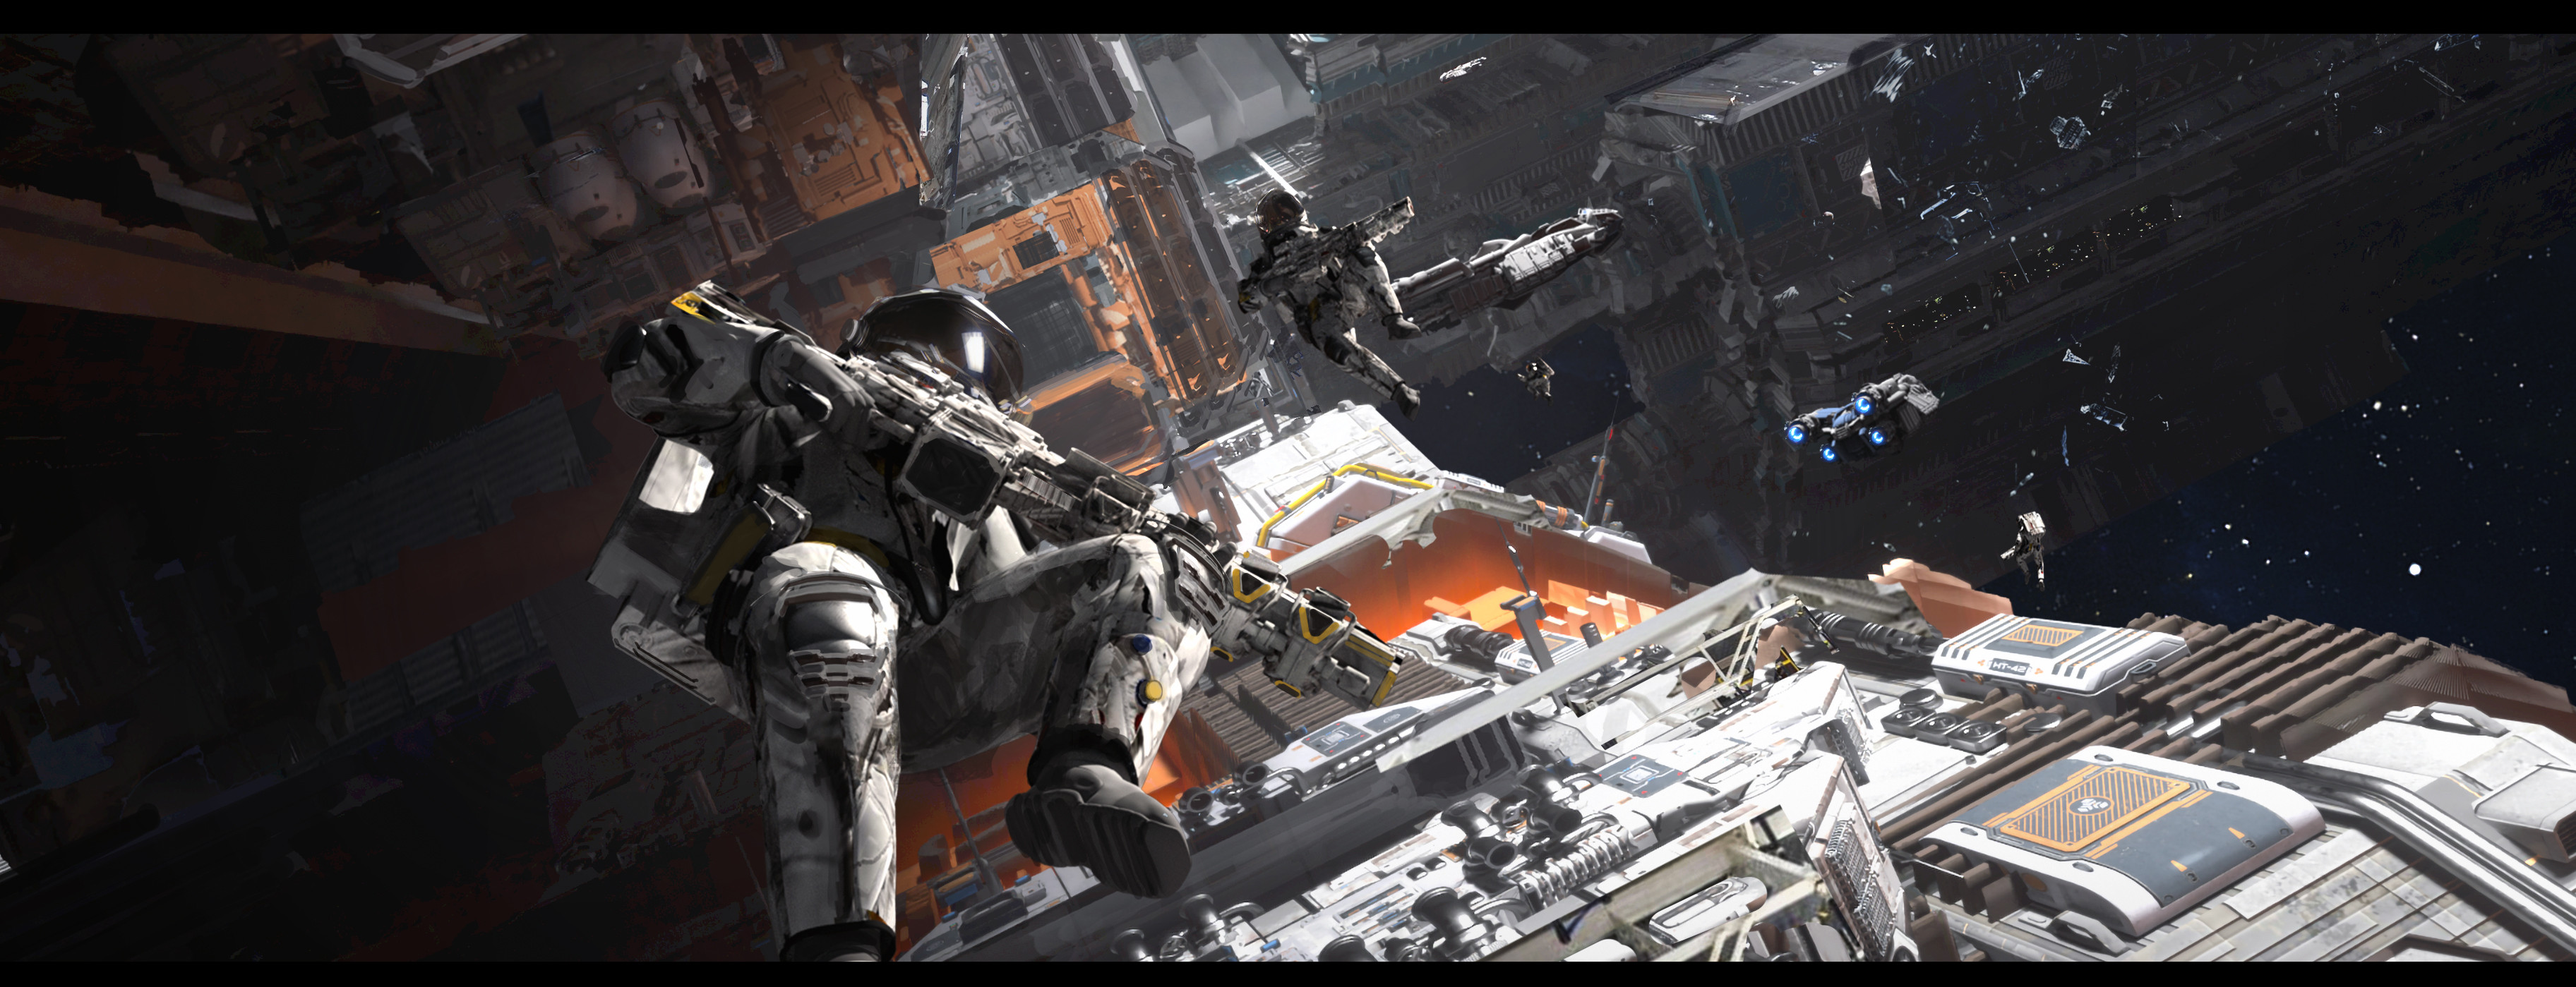
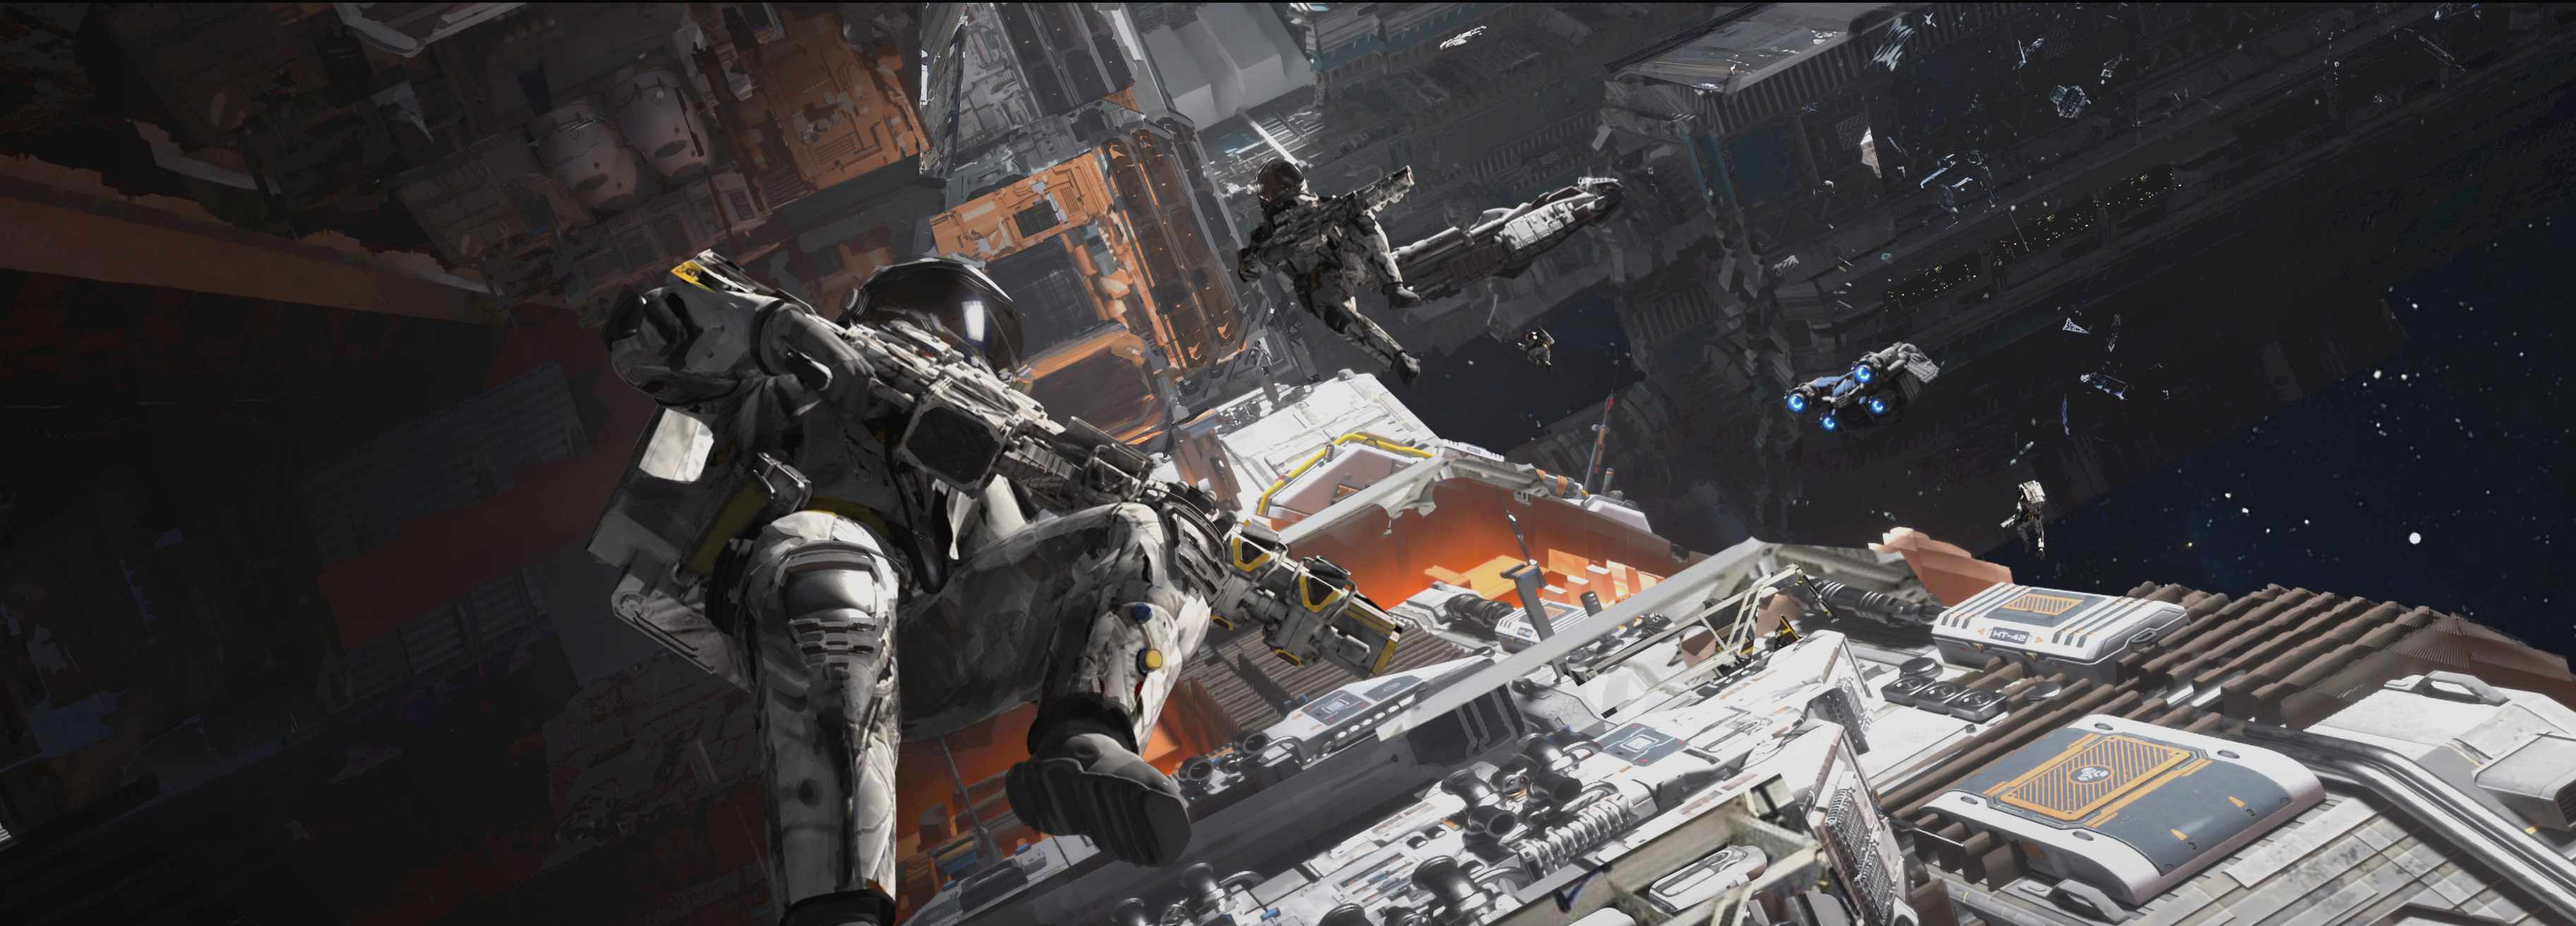
3
图片压缩，页面功能删减，更加简洁，提高访问速度与链接质量

diff --git a/about.html b/about.html
@@ -198,10 +198,16 @@
           <div class="row">
             <div class="col-md-12 col-lg-6">
               <div class="manager-content">
-                <h2 class=" font-medium">A focus on what matters</h2>
-                <h4 class="fotn-20 mt-20 font-roboto font-medium line-height-30">It is a long established fact that a reader will be distracted by the readable content of a page when looking at its layout. The point of using Lorem Ipsum is that it has a more-or-less </h4>
-                <p class="mt-20 opacity-80">It is a long established fact that a reader will be distracted by the readable content of a page when looking at its layout. </p>
-                <p class="mt-20 opacity-80">It is a long established fact that a reader will be distracted by the readable content of a page when looking at its layout. The point of using Lorem Ipsum is that it has a more-or-less normal distribution of letters, </p>
+                <h2 class=" font-medium">关注我的b站账号</h2>
+              <ul class="mt-35">
+                <li> <p><span><i class="far fa-check-circle"></i></span> Blender的软件操作和一些常见的问题</p></li>
+                <li> <p><span><i class="far fa-check-circle"></i></span>CAD（不限于Autocad和中望cad）的基本操作和部分问题解决</p></li>
+                <li> <p><span><i class="far fa-check-circle"></i></span>不定期分享其他的软件操作</p></li>
+                <li> <p><span><i class="far fa-check-circle"></i></span> 个人收藏内有大量的软件学习教程</p></li>
+              </ul>
+              <div class="manager-btn mt-40">
+                <a class="btn btn-theme white" href="https://space.bilibili.com/1909791946/" target="_blank">关注我的b站账号</a>
+              </div>
             </div>
             </div>
             <div class="col-md-12 col-lg-6">
@@ -376,9 +382,9 @@
       <div class="pta-check">
         <div class="container">
           <div class="pta-box d-lg-flex">
-            <h3 class="white font-light font-30 font-md-40">We transform your ability to make, adapt and grow. Digital business provide creative strategy </h3>
+            <h3 class="white font-light font-30 font-md-40">更新日志</h3>
             <div class="pta-btn mt-30 mt-md-0">
-              <a class="btn btn-blue-3" href="#">Ask your Question</a>
+              <a class="btn btn-blue-3" href="#">查看</a>
             </div>
           </div>
         </div>
@@ -387,79 +393,7 @@
      <!-- =====================================
     ======== Pta Area End ==========
     ====================================== -->
-
-    <!-- =====================================
-    ======== Count Area Start ==========
-    ====================================== -->
-    <section class="count-area section-padding">
-      <div class="container">
-        <div class="section-title-center">
-          <h2 >Strength in numbers workspace </h2>
-          <span class="opacity-80">Trusted by over 30,000 of the world’s leading</span>
-        </div>
-      </div>
-      <div class="container">
-        <div class="count-wrapper mt-30">
-          <div class="row">
-            <div class="col-sm-6 col-md-6 col-lg-3">
-              <div class="count-box text-center py-30 mt-30">
-                <div class="count-icon count-icon-1">
-                  <span><i class="fas fa-mobile-alt"></i></span>
-                </div>
-                <div class="count-content">
-                  <span class="font-40 counter font-medium">12</span>
-                  <span class="font-40 font-medium">k</span>
-                  <p class="opacity-80">App Build</p>
-                </div>
-              </div>
-            </div>
-            <div class="col-sm-6 col-md-6 col-lg-3">
-              <div class="count-box text-center py-30 mt-30">
-                <div class="count-icon count-icon-2">
-                  <span><i class="fas fa-cloud-download-alt"></i></span>
-                </div>
-                <div class="count-content">
-                  <span class="font-40 counter font-medium">101</span>
-                  <span class="font-40 font-medium">k</span>
-                  <p class="opacity-80">Downloaded</p>
-                </div>
-              </div>
-            </div>
-            <div class="col-sm-6 col-md-6 col-lg-3">
-              <div class="count-box text-center py-30 mt-30">
-                <div class="count-icon count-icon-3">
-                  <span><i class="fas fa-list-ul"></i></span>
-                </div>
-                <div class="count-content">
-                  <span class="font-40 counter font-medium">2</span>
-                  <span class="font-40 font-medium">k</span>
-                  <p class="opacity-80">Projects Complated</p>
-                </div>
-              </div>
-            </div>
-            <div class="col-sm-6 col-md-6 col-lg-3">
-              <div class="count-box text-center py-30 mt-30">
-                <div class="count-icon count-icon-4">
-                  <span><i class="fab fa-behance"></i></span>
-                </div>
-                <div class="count-content">
-                  <span class="font-40 counter font-medium">10</span>
-                  <span class="font-40 font-medium">k</span>
-                  <p class="opacity-80">Behance. follower</p>
-                </div>
-              </div>
-            </div>
-        </div>
-        </div>
-      </div>
-      <div class="count-shap">
-        <img src="assets/img/count-bg.png" alt="">
-      </div>
-    </section>
-    <!-- =====================================
-    ======== Count Area End ==========
-    ====================================== -->
-
+    
   </main>
 
   <!-- =====================================

diff --git a/index.html b/index.html
@@ -93,7 +93,7 @@
     <section class="banner">
       <div class="banner-slide carousel owl-carousel" data-nav="false" data-dots='false' data-animateout="animate__fadeOut" data-animatein="animate__fadeIn" data-margin="0" data-smartSpeed="1000" data-autoplay='true' data-items='1'>
         <div class="banner-slide-item">
-          <div class="banner-area" style="background-image: url(assets/img/index1.png);">
+          <div class="banner-area" style="background-image: url(assets/img/index1.jpg);">
             <div class="container">
               <div class="row">
                 <div class="col-12 col-md-7">
@@ -116,7 +116,7 @@
         </div>
 <!--主页轮播页面二-->
         <div class="banner-slide-item">
-          <div class="banner-area" style="background-image: url(assets/img/index2.png);">
+          <div class="banner-area" style="background-image: url(assets/img/index2.jpg);">
             <div class="container">
               <div class="row">
                 <div class="col-12 col-md-7">
@@ -139,7 +139,7 @@
         </div>
 <!--主页轮播页面三-->
         <div class="banner-slide-item">
-          <div class="banner-area" style="background-image: url(assets/img/index3.png);">
+          <div class="banner-area" style="background-image: url(assets/img/index3.jpg);">
             <div class="container">
               <div class="row">
                 <div class="col-12 col-md-7">
@@ -200,7 +200,7 @@
           </div>
           <div class="col-lg-4">
             <div class="business-img mt-30 mt-lg-0">
-              <img src="assets/img/business.jpg" alt="">
+              <img src="assets/img/niro-xious-makimaaasu2s-1.jpg" alt="图片丢失，请联系管理员">
             </div>
           </div>
         </div>
@@ -275,41 +275,6 @@
     ======== Skill Area End ==========
     ====================================== -->
 
-    <!-- =====================================
-    ======== Manager Area End ==========
-    ====================================== -->
-    <section class="manager-area section-padding">
-      <div class="container">
-        <div class="row">
-          <div class="col-md-12 col-lg-5">
-            <div class="manager-content">
-              <span>视频教程</span>
-              <h2 class="font-medium mt-20">如何学习更多的软件知识</h2>
-              <ul class="mt-35">
-                <li> <p><span><i class="far fa-check-circle"></i></span> Blender的软件操作和一些常见的问题</p></li>
-                <li> <p><span><i class="far fa-check-circle"></i></span>CAD（不限于Autocad和中望cad）的基本操作和部分问题解决</p></li>
-                <li> <p><span><i class="far fa-check-circle"></i></span>不定期分享其他的软件操作</p></li>
-                <li> <p><span><i class="far fa-check-circle"></i></span> 个人收藏内有大量的软件学习教程</p></li>
-              </ul>
-              <div class="manager-btn mt-40">
-                <a class="btn btn-theme white" href="https://space.bilibili.com/1909791946/" target="_blank">关注我的b站账号</a>
-              </div>
-            </div>
-          </div>
-          <div class="col-md-12 col-lg-7">
-            <div class="manager-img mt-40 mt-lg-0">
-              <img src="assets/img/upxusu.jpg" alt="图片又丢失了o。O？请告知管理员QAQ">
-              <span></span>
-              <span></span>
-              <span></span>
-            </div>
-          </div>
-        </div>
-      </div>
-    </section>
-    <!-- =====================================
-    ======== Manager Area End ==========
-    ====================================== -->
 
     <!-- =====================================
     ======== video Area Start ==========
@@ -336,32 +301,6 @@
     <!-- =====================================
     ======== video Area End ==========
     ====================================== -->
-<br>
-<br>
-<br>
-    <!-- =====================================
-    ======== Count Area Start ==========
-    ====================================== -->
-    <section class="count-area pt-50 pt-md-0 pb-50 pb-lg-70 pb-xl-100">
-            <div class="col-md-6">
-           	   <div class="contact-news black py-30 px-30 py-lg-60 text-center mt-100 mt-lg-0 tilt">
-             	 <h2 class=" font-light black">Let`s work together</h2>
-           	  	 <p class="opacity-80 font-300">Let us know what you’re looking for in an agency. We’ll take a look and see if this could be the start of something beautiful.</p>
-              	 <a class="font-15" href="portfolio-2.html">Let’s Work <span><i class="fas fa-caret-right"></i></span></a>
-              </div>
-          </div>
-            </div>
-        </div>
-        </div>
-      </div>
-      <div class="count-shap">
-        <img src="assets/img/count-bg.png" alt="">
-      </div>
-    </section>
-    <!-- =====================================
-    ======== Count Area End ==========
-    ====================================== -->
-
 
   </main>
 

diff --git a/image.html b/image.html
@@ -89,7 +89,7 @@
     <!-- =====================================
     ============ Page Banner Area Start ============
     ====================================== -->
-    <section class="banner-area page-banner-2" style="background-image: url(assets/img/portfolio/z-w-gu-dvascombinedsmall.png);">
+    <section class="banner-area page-banner-2" style="background-image: url(assets/img/portfolio/z-w-gu-dvascombinedsmall.jpg);">
         <div class="container">
           <div class="banner-content d-flex justify-content-center flex-column text-center">
               <h2 class="font-md-60 white text-center">项目</h2>

diff --git a/blog.html b/blog.html
@@ -115,7 +115,7 @@
                             <div class="col-lg-12 col-xl-6">
                                 <div class="blog-img">
                                   <a href="blog-single.html">
-                                    <img class="d-block" src="assets/img/blog/huifeng-huang-normal-face.jpg" alt="">
+                                    <img class="d-block" src="assets/img/blog/huifeng-huang-normal-face.png" alt="">
                                   </a>
                                   <span><a href="blog.html">News</a></span>
                                 </div>
